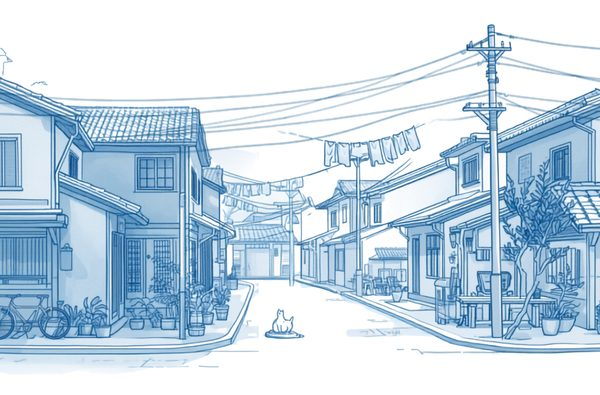
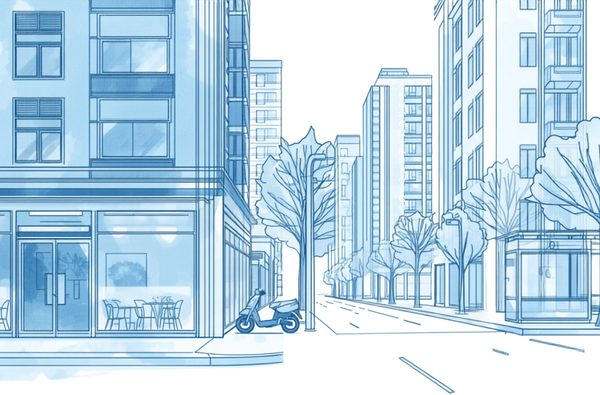
Modern Seoul daily illustration; consonant category renamed with floating jamo art

diff --git a/src/features/categories/model/categories.ts b/src/features/categories/model/categories.ts
@@ -40,7 +40,7 @@ export const CATEGORIES: Category[] = [
    * 계속 널리 쓰이면 frequently-used로 옮긴다. */
   { slug: 'new-slang',       name: '새로운\n신조어',  nameEn: 'New\nSlang',      nameJa: '新しい\n新造語',         nameVi: 'Từ lóng\nmới',          nameEs: 'Jerga\nnueva',          nameDe: 'Neuer\nSlang',            nameTr: 'Yeni\nargo', emoji: '✨',  description: '최근 등록된 신조어 — 유행이 검증되면 재분류',  colorBg: '#D97060', colorFg: '#720000', image: require('../../../../assets/categories/new-slang.jpg') },
   { slug: 'frequently-used', name: '자주 쓰는\n신조어', nameEn: 'Frequently\nUsed', nameJa: 'よく使う\n新造語',     nameVi: 'Từ lóng\nthường dùng',  nameEs: 'Jerga\nfrecuente',      nameDe: 'Häufiger\nSlang',         nameTr: 'Sık kullanılan\nargo', emoji: '🔥', description: '매일 대화에서 빠지지 않는 필수 신조어',   colorBg: '#E8D88A', colorFg: '#7C2929', image: require('../../../../assets/categories/frequently-used.jpg') },
-  { slug: 'consonant',       name: '초성\n모음집',    nameEn: 'Consonant\nSlang', nameJa: '子音字\nコレクション', nameVi: 'Bộ sưu tập\nphụ âm',    nameEs: 'Colección de\nconsonantes', nameDe: 'Konsonanten', nameTr: 'Ünsüz\nkısaltmaları', emoji: '🔤', description: 'ㅋㅋ, ㅠㅠ 같은 초성 줄임말 모음',        colorBg: '#E8A880', colorFg: '#C85107', image: require('../../../../assets/categories/consonant.jpg') },
+  { slug: 'consonant',       name: '초성',            nameEn: 'Consonant\nSlang', nameJa: '子音字\nコレクション', nameVi: 'Bộ sưu tập\nphụ âm',    nameEs: 'Colección de\nconsonantes', nameDe: 'Konsonanten', nameTr: 'Ünsüz\nkısaltmaları', emoji: '🔤', description: 'ㅋㅋ, ㅠㅠ 같은 초성 줄임말 모음',        colorBg: '#E8A880', colorFg: '#C85107', image: require('../../../../assets/categories/consonant.jpg') },
   { slug: 'outdated-slang',  name: '한물 간\n신조어',  nameEn: 'Outdated\nSlang',  nameJa: '古い\n新造語',          nameVi: 'Từ lóng\nlỗi thời',     nameEs: 'Jerga\npasada de moda', nameDe: 'Veralteter\nSlang',        nameTr: 'Modası geçmiş\nargo', emoji: '🕰', description: '한때 유행했지만 지금은 잘 안 쓰는 말',    colorBg: '#C8B898', colorFg: '#AF5B23', image: require('../../../../assets/categories/outdated-slang.jpg') },
   { slug: 'work',            name: '회사/\n직장',     nameEn: 'Work\nLife',      nameJa: '会社/\n職場',           nameVi: 'Công sở',               nameEs: 'Trabajo',               nameDe: 'Arbeit',                  nameTr: 'İş\nhayatı', emoji: '💼',  description: '회사·직장 생활에서 쓰는 신조어',          colorBg: '#AFC4B0', colorFg: '#1F4A2C', image: require('../../../../assets/categories/work.jpg') },
   { slug: 'slang',           name: '속어',            nameEn: 'Slang',           nameJa: '俗語',                  nameVi: 'Tiếng lóng',            nameEs: 'Jerga',                 nameDe: 'Umgangssprache',         nameTr: 'Kaba dil', emoji: '🔥',  description: '거친 표현·비속어 등 실제 대화에서 쓰이는 속어', colorBg: '#3A3A3A', colorFg: '#E2B55D', image: require('../../../../assets/categories/slang.jpg'), premiumOnly: true },
